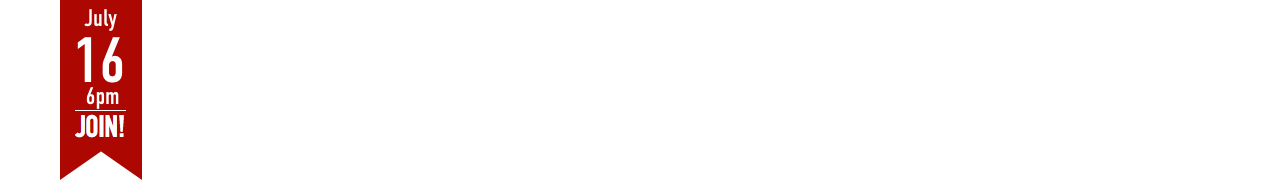
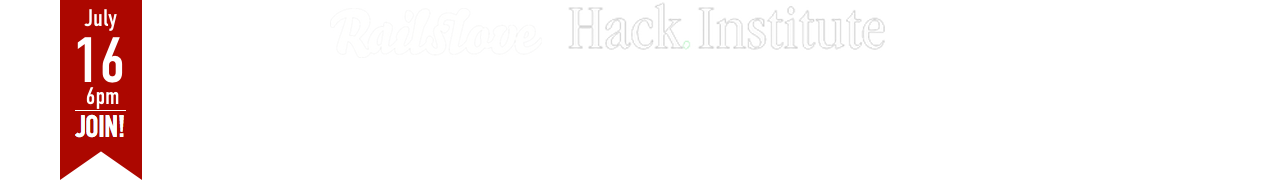
added supporters

Changed region(s): [[0.4375, 0.0556, 0.6875, 0.2778], [0.5938, 0.1667, 0.625, 0.1944]]

diff --git a/index.html b/index.html
@@ -28,7 +28,7 @@
       <div class='blender'></div>
       <div class='grid'></div>
       <div class='content'>
-        <img alt='Dating Game' src='./images/logo.png' width="100%">
+        <img alt='Dating Game' src='./images/logo.png'>
         <p class='tagline'>
           Startups meet VCs meet CTOs
         </p>
